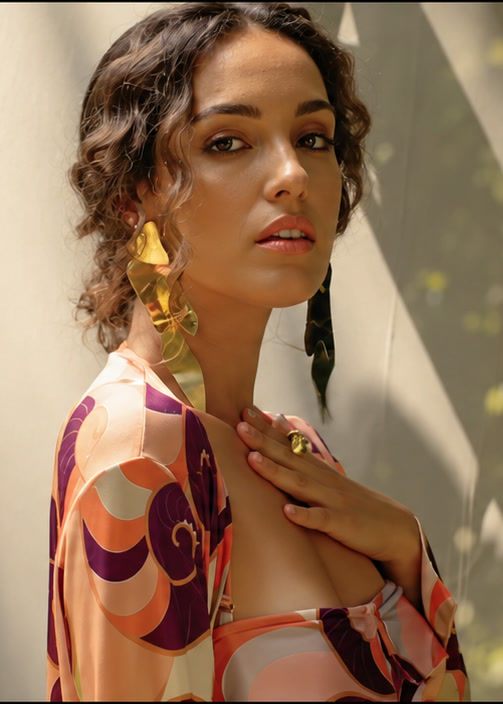
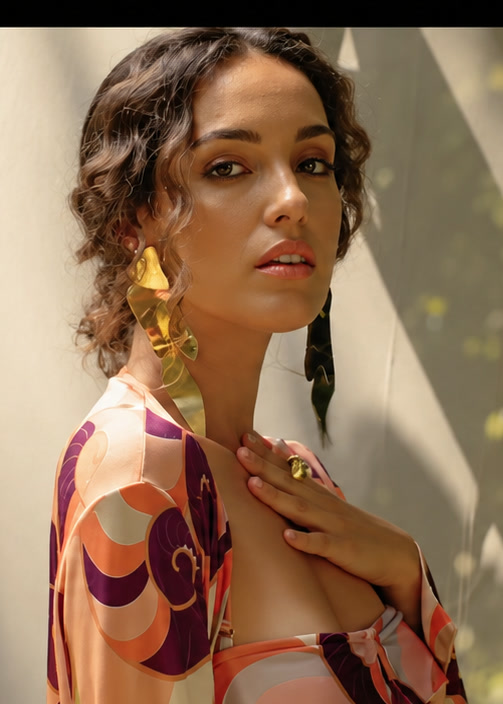
A foto do Ato I desce 28px e a cabeça ganha ar

diff --git a/index.html b/index.html
@@ -207,7 +207,7 @@
       <li class="ato-panel" data-reveal style="--i:0">
         <a class="ato-panel__link" href="musica.html">
           <span class="ato-panel__figure">
-            <img src="assets/img/ato-musica.jpg?v=202610011200" alt="Bruna Pazinato em quadro de clipe, vestido estampado e luz de sol" width="503" height="704" decoding="async">
+            <img src="assets/img/ato-musica.jpg?v=202610011300" alt="Bruna Pazinato em quadro de clipe, vestido estampado e luz de sol" width="503" height="704" decoding="async">
           </span>
           <span class="ato-panel__veil" aria-hidden="true"></span>
           <span class="ato-panel__caption">

diff --git a/gambetta/index.html b/gambetta/index.html
@@ -172,7 +172,7 @@
       <li class="ato-panel" data-reveal style="--i:0">
         <a class="ato-panel__link" href="musica.html">
           <span class="ato-panel__figure">
-            <img src="../assets/img/ato-musica.jpg?v=202610011200" alt="" width="503" height="704" decoding="async">
+            <img src="../assets/img/ato-musica.jpg?v=202610011300" alt="" width="503" height="704" decoding="async">
           </span>
           <span class="ato-panel__veil" aria-hidden="true"></span>
           <span class="ato-panel__caption">
